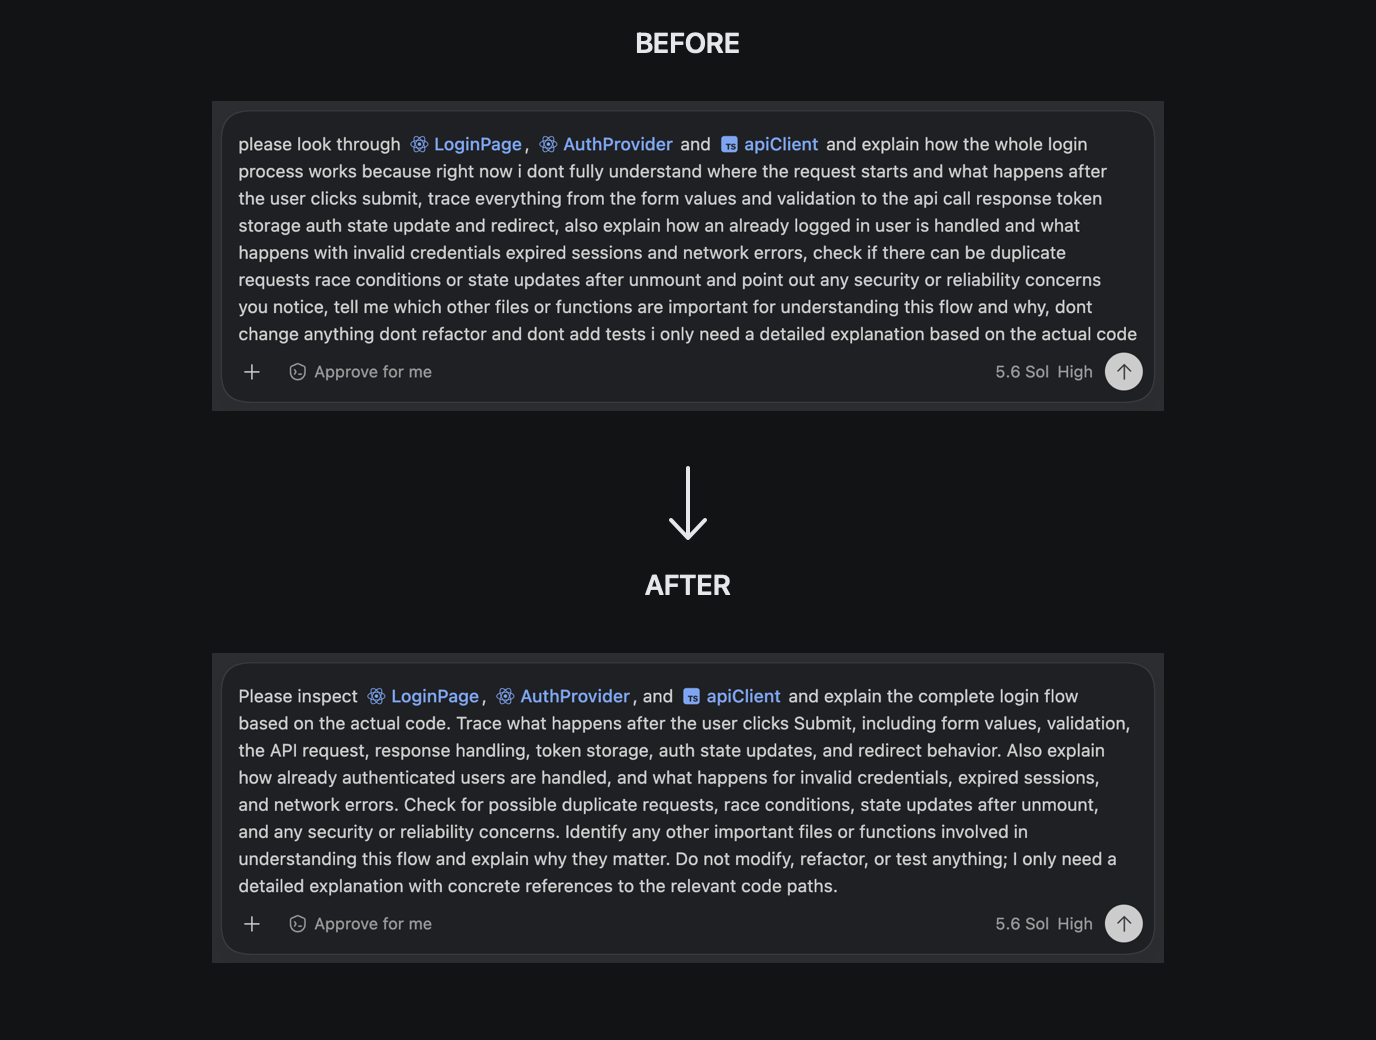
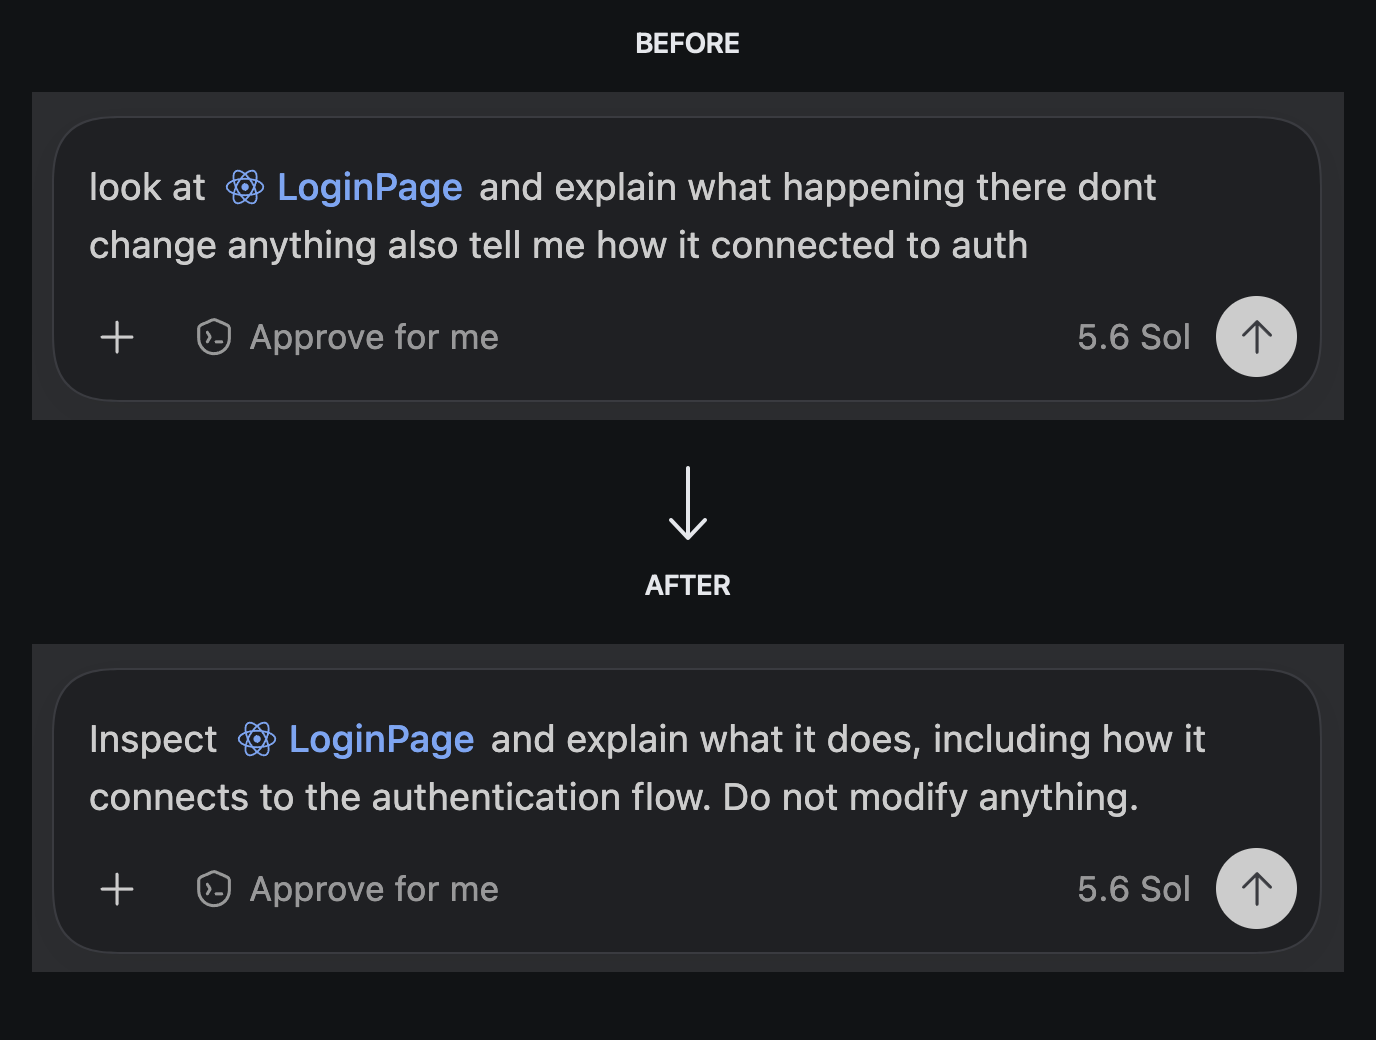
docs: include simple and complex examples

Changed region(s): [[0.0, 0.0615, 1.0, 0.4308], [0.0, 0.6154, 1.0, 0.9538]]

diff --git a/scripts/verify-package.py b/scripts/verify-package.py
@@ -17,14 +17,22 @@ PACKAGED_IMAGES = {
     "extension/docs/images/example-english.png": (
         ROOT_DIR / "docs/images/example-english.png"
     ),
+    "extension/docs/images/example-english-complex.png": (
+        ROOT_DIR / "docs/images/example-english-complex.png"
+    ),
     "extension/docs/images/example-russian.png": (
         ROOT_DIR / "docs/images/example-russian.png"
+    ),
+    "extension/docs/images/example-russian-complex.png": (
+        ROOT_DIR / "docs/images/example-russian-complex.png"
     ),
 }
 
 README_IMAGE_LINKS = (
     "docs/images/example-english.png",
+    "docs/images/example-english-complex.png",
     "docs/images/example-russian.png",
+    "docs/images/example-russian-complex.png",
 )
 
 REQUIRED_FILES = {

diff --git a/README.md b/README.md
@@ -43,13 +43,25 @@ The status-bar item is informational only and is intentionally not clickable.
 
 Press **Cmd+Shift+R** to turn a rough prompt into a clearer version without sending it.
 
-### English
+### Simple Examples
+
+#### English
 
 ![English prompt before and after enhancement in Cursor](docs/images/example-english.png)
 
-### Russian
+#### Russian
 
 ![Russian prompt before and after enhancement in Cursor](docs/images/example-russian.png)
+
+### Complex Examples
+
+#### English
+
+![Complex English prompt before and after enhancement in Cursor](docs/images/example-english-complex.png)
+
+#### Russian
+
+![Complex Russian prompt before and after enhancement in Cursor](docs/images/example-russian-complex.png)
 
 ## What is preserved
 

diff --git a/docs/development.md b/docs/development.md
@@ -124,7 +124,7 @@ The package script:
 - verifies that `bin/prompt-accessibility-helper` is included and executable;
 - rejects probe binaries, backup files, sources, tests, and development commands;
 - verifies that the packaged helper matches the current build;
-- verifies that both README example images are current and correctly sized.
+- verifies that all four README example images are current and correctly sized.
 
 ## Install the local package
 
